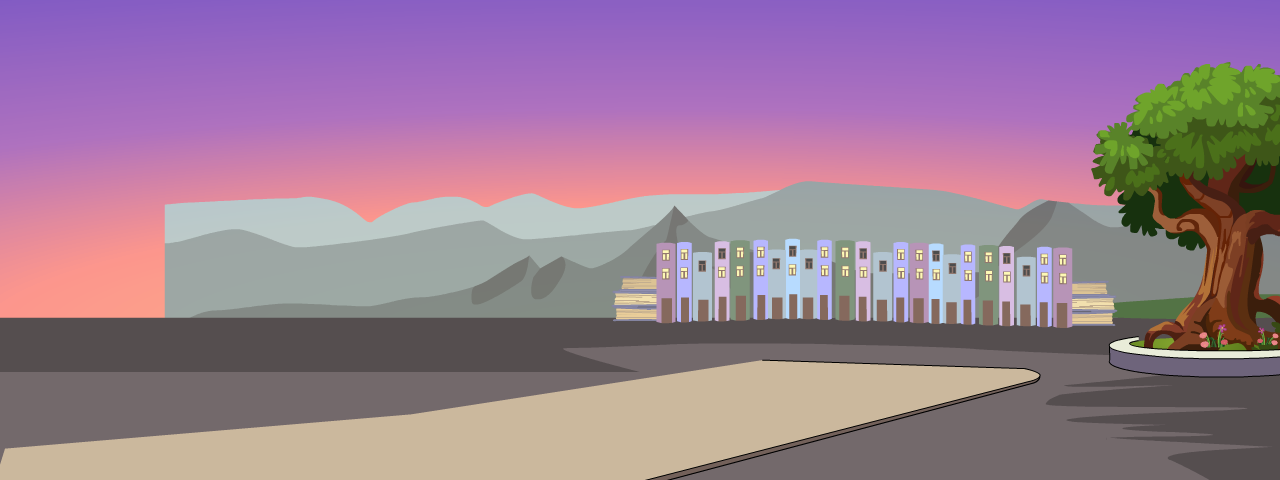
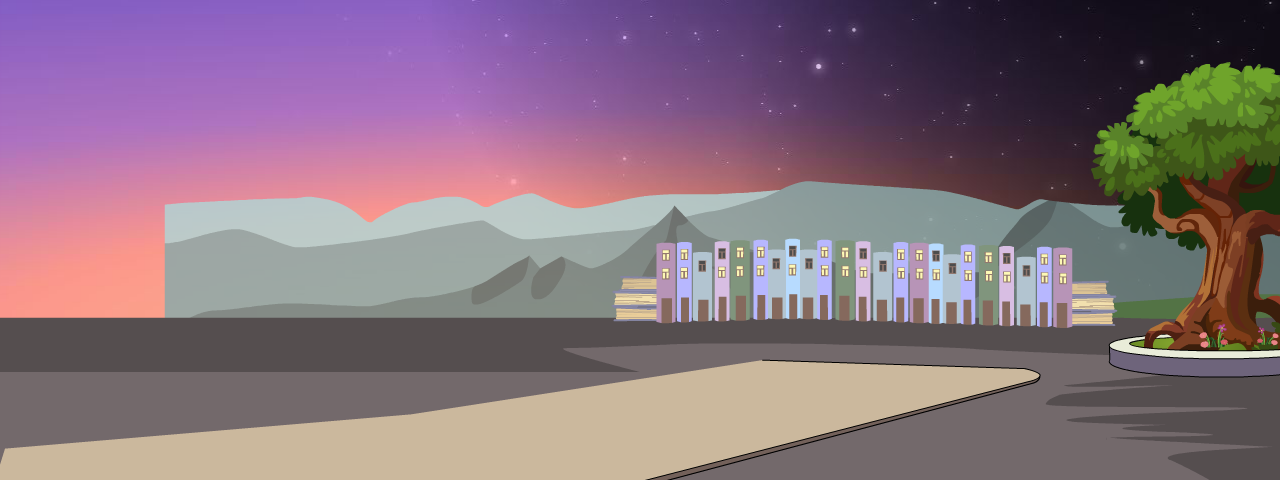
Add new transition environment

Changed region(s): [[0.375, 0.0, 1.0, 0.625]]

diff --git a/src/layout/console/content/play/components/environment/CityTransition.js b/src/layout/console/content/play/components/environment/CityTransition.js
@@ -3,22 +3,14 @@
  */
 import Environment from "./Environment";
 
-export default class CityEntrance extends Environment {
-  static GROUND_IMAGE =
-    "./assets/animation/city_entrance/city_entrance_background.png";
-  static HOUSES_IMAGE =
-    "./assets/animation/city_entrance/city_entrance_houses.png";
-  static LAMPS_IMAGE =
-    "./assets/animation/city_entrance/city_entrance_lamps.png";
-  static SHADOW_IMAGE =
-    "./assets/animation/city_entrance/city_entrance_shadow.png";
-
+export default class CityTransition extends Environment {
+  static GROUND_IMAGE = "./assets/animation/city_transition/city_transition_background.png";
+  static KEYWALL_IMAGE =
+    "./assets/animation/city_transition/city_transition_keywall.png";
+  static OVERLAY_IMAGE =
+    "./assets/animation/city_transition/city_transition_overlay.png";
   static WALK_AREA_IMAGE =
-    "./assets/animation/city_entrance/city_entrance_walkarea.png";
-  static WALK_BEHIND_AREA_IMAGE =
-    "./assets/animation/city_entrance/city_entrance_walkarea_behind.png";
-  static WALK_BEHIND2_AREA_IMAGE =
-    "./assets/animation/city_entrance/city_entrance_walkarea_behind2.png";
+    "./assets/animation/city_transition/city_transition_walkarea.png";
 
   /**
    * Preload all the environment images, so they are cached and ready to display
@@ -28,32 +20,20 @@ export default class CityEntrance extends Environment {
     super.preload(p5);
     this.animationLoader.getStaticImage(
       p5,
-      CityEntrance.GROUND_IMAGE
+      CityTransition.GROUND_IMAGE
     );
     this.animationLoader.getStaticImage(
       p5,
-      CityEntrance.HOUSES_IMAGE
+      CityTransition.KEYWALL_IMAGE
     );
     this.animationLoader.getStaticImage(
       p5,
-      CityEntrance.LAMPS_IMAGE
-    );
-    this.animationLoader.getStaticImage(
-      p5,
-      CityEntrance.SHADOW_IMAGE
+      CityTransition.OVERLAY_IMAGE
     );
 
     this.animationLoader.getStaticImage(
       p5,
-      CityEntrance.WALK_AREA_IMAGE
-    );
-    this.animationLoader.getStaticImage(
-      p5,
-      CityEntrance.WALK_BEHIND_AREA_IMAGE
-    );
-    this.animationLoader.getStaticImage(
-      p5,
-      CityEntrance.WALK_BEHIND2_AREA_IMAGE
+      CityTransition.WALK_AREA_IMAGE
     );
   }
 
@@ -64,55 +44,25 @@ export default class CityEntrance extends Environment {
   getRightSpawnProperties() {
     console.log("getRightSpawnProperties");
     return {
-      x: Math.round(
-        (CityEntrance.IMAGE_WIDTH - 100) * this.scaleAmountX
-      ),
-      y: Math.round(
-        (CityEntrance.IMAGE_HEIGHT - 120) *
-          this.scaleAmountY
-      ),
-      scale: 0.2,
+      x: Math.round((CityTransition.IMAGE_WIDTH - 100) * this.scaleAmountX),
+      y: Math.round((CityTransition.IMAGE_HEIGHT - 140) * this.scaleAmountY),
+      scale: 0.3,
+    };
+  }
+
+  getLeftSpawnProperties() {
+    console.log("getLeftSpawnProperties");
+    return {
+      x: Math.round(100 * this.scaleAmountX),
+      y: Math.round((Environment.IMAGE_HEIGHT - 140) * this.scaleAmountY),
+      scale: 0.3
     };
   }
 
   isValidPosition(p5, x, y) {
     let walkAreaImage = this.animationLoader.getStaticImage(
       p5,
-      CityEntrance.WALK_AREA_IMAGE
-    );
-
-    let color = walkAreaImage.get(
-      Math.round(x / this.scaleAmountX),
-      Math.round(y / this.scaleAmountY)
-    );
-    if (color && color[0] > 0) {
-      return true;
-    } else {
-      return false;
-    }
-  }
-
-  isWalkBehindLampsPosition(p5, x, y) {
-    let walkAreaImage = this.animationLoader.getStaticImage(
-      p5,
-      CityEntrance.WALK_BEHIND_AREA_IMAGE
-    );
-
-    let color = walkAreaImage.get(
-      Math.round(x / this.scaleAmountX),
-      Math.round(y / this.scaleAmountY)
-    );
-    if (color && color[0] > 0) {
-      return true;
-    } else {
-      return false;
-    }
-  }
-
-  isWalkBehindHousesPosition(p5, x, y) {
-    let walkAreaImage = this.animationLoader.getStaticImage(
-      p5,
-      CityEntrance.WALK_BEHIND2_AREA_IMAGE
+      CityTransition.WALK_AREA_IMAGE
     );
 
     let color = walkAreaImage.get(
@@ -134,84 +84,32 @@ export default class CityEntrance extends Environment {
     let backgroundImage =
       this.animationLoader.getStaticImage(
         p5,
-        CityEntrance.GROUND_IMAGE
+        CityTransition.GROUND_IMAGE
       );
-    let housesImage = this.animationLoader.getStaticImage(
-      p5,
-      CityEntrance.HOUSES_IMAGE
-    );
-    let lampsImage = this.animationLoader.getStaticImage(
-      p5,
-      CityEntrance.LAMPS_IMAGE
-    );
 
     p5.push();
     p5.scale(this.scaleAmountX, this.scaleAmountY);
 
     p5.image(backgroundImage, 0, 0);
 
-    let walkBehindHouses = this.isWalkBehindHousesPosition(
-      p5,
-      fervie.getFervieFootX(),
-      fervie.getFervieFootY()
-    );
-    let walkBehindLamps = this.isWalkBehindLampsPosition(
-      p5,
-      fervie.getFervieFootX(),
-      fervie.getFervieFootY()
-    );
-
-    if (!walkBehindHouses) {
-      p5.image(housesImage, 0, 0);
-    }
-
-    if (!walkBehindLamps && !walkBehindHouses) {
-      p5.image(lampsImage, 0, 0);
-    }
-
     p5.pop();
   }
 
   drawOverlay(p5, fervie) {
-    let shadowOverlay = this.animationLoader.getStaticImage(
+    let keywallImage = this.animationLoader.getStaticImage(
       p5,
-      CityEntrance.SHADOW_IMAGE
+      CityTransition.KEYWALL_IMAGE
     );
-    let housesImage = this.animationLoader.getStaticImage(
+    let overlayImage = this.animationLoader.getStaticImage(
       p5,
-      CityEntrance.HOUSES_IMAGE
-    );
-    let lampsImage = this.animationLoader.getStaticImage(
-      p5,
-      CityEntrance.LAMPS_IMAGE
+      CityTransition.OVERLAY_IMAGE
     );
 
     p5.push();
     p5.scale(this.scaleAmountX, this.scaleAmountY);
 
-    if (
-      this.isWalkBehindHousesPosition(
-        p5,
-        fervie.getFervieFootX(),
-        fervie.getFervieFootY()
-      )
-    ) {
-      p5.image(housesImage, 0, 0);
-      p5.image(lampsImage, 0, 0);
-    }
-
-    if (
-      this.isWalkBehindLampsPosition(
-        p5,
-        fervie.getFervieFootX(),
-        fervie.getFervieFootY()
-      )
-    ) {
-      p5.image(lampsImage, 0, 0);
-    }
-
-    p5.tint(255, Math.round(220));
-    p5.image(shadowOverlay, 0, 0);
+    p5.image(keywallImage, 0, 0);
+    p5.image(overlayImage, 0, 0);
 
     p5.pop();
   }

diff --git a/src/layout/console/content/play/components/environment/EnvironmentMap.js b/src/layout/console/content/play/components/environment/EnvironmentMap.js
@@ -8,6 +8,7 @@ import HouseInsideEntry from "./HouseInsideEntry";
 import HouseInsideKitchen from "./HouseInsideKitchen";
 import HouseInsideBedroom from "./HouseInsideBedroom";
 import CityEntrance from "./CityEntrance";
+import CityTransition from "./CityTransition";
 
 export default class EnvironmentMap {
   constructor(animationLoader, width, height) {
@@ -34,6 +35,8 @@ export default class EnvironmentMap {
   static HOUSE_INSIDE_KITCHEN = "HouseInsideKitchen";
   static HOUSE_INSIDE_BEDROOM = "HouseInsideBedroom";
   static CITY_ENTRANCE = "CityEntrance";
+  static CITY_TRANSITION = "CityTransition";
+
 
   static MAP_LEFT = "-left";
   static MAP_RIGHT = "-right";
@@ -89,56 +92,29 @@ export default class EnvironmentMap {
         this.height
       );
 
+    this.environmentMap[EnvironmentMap.CITY_TRANSITION] =
+      new CityTransition(
+        this.animationLoader,
+        this.width,
+        this.height
+      );
+
     this.travelMap = [];
 
-    this.travelMap[
-      EnvironmentMap.ENVIRONMENT_BIG_TREE +
-        EnvironmentMap.MAP_RIGHT
-    ] = EnvironmentMap.ENVIRONMENT_SHROOMHOUSE;
-    this.travelMap[
-      EnvironmentMap.ENVIRONMENT_SHROOMHOUSE +
-        EnvironmentMap.MAP_LEFT
-    ] = EnvironmentMap.ENVIRONMENT_BIG_TREE;
-    this.travelMap[
-      EnvironmentMap.ENVIRONMENT_BIG_TREE +
-        EnvironmentMap.MAP_NORTH
-    ] = EnvironmentMap.ENVIRONMENT_LAKE;
-    this.travelMap[
-      EnvironmentMap.ENVIRONMENT_BIG_TREE +
-        EnvironmentMap.MAP_LEFT
-    ] = EnvironmentMap.CITY_ENTRANCE;
-    this.travelMap[
-      EnvironmentMap.CITY_ENTRANCE +
-        EnvironmentMap.MAP_RIGHT
-    ] = EnvironmentMap.ENVIRONMENT_BIG_TREE;
-    this.travelMap[
-      EnvironmentMap.ENVIRONMENT_LAKE +
-        EnvironmentMap.MAP_SOUTH
-    ] = EnvironmentMap.ENVIRONMENT_BIG_TREE;
-    this.travelMap[
-      EnvironmentMap.ENVIRONMENT_SHROOMHOUSE +
-        EnvironmentMap.MAP_NORTH
-    ] = EnvironmentMap.HOUSE_INSIDE_ENTRY;
-    this.travelMap[
-      EnvironmentMap.HOUSE_INSIDE_ENTRY +
-        EnvironmentMap.MAP_SOUTH
-    ] = EnvironmentMap.ENVIRONMENT_SHROOMHOUSE;
-    this.travelMap[
-      EnvironmentMap.HOUSE_INSIDE_ENTRY +
-        EnvironmentMap.MAP_LEFT
-    ] = EnvironmentMap.HOUSE_INSIDE_KITCHEN;
-    this.travelMap[
-      EnvironmentMap.HOUSE_INSIDE_ENTRY +
-        EnvironmentMap.MAP_NORTH
-    ] = EnvironmentMap.HOUSE_INSIDE_BEDROOM;
-    this.travelMap[
-      EnvironmentMap.HOUSE_INSIDE_KITCHEN +
-        EnvironmentMap.MAP_RIGHT
-    ] = EnvironmentMap.HOUSE_INSIDE_ENTRY;
-    this.travelMap[
-      EnvironmentMap.HOUSE_INSIDE_BEDROOM +
-        EnvironmentMap.MAP_SOUTH
-    ] = EnvironmentMap.HOUSE_INSIDE_ENTRY;
+    this.travelMap[EnvironmentMap.ENVIRONMENT_BIG_TREE + EnvironmentMap.MAP_RIGHT] = EnvironmentMap.ENVIRONMENT_SHROOMHOUSE;
+    this.travelMap[EnvironmentMap.ENVIRONMENT_SHROOMHOUSE + EnvironmentMap.MAP_LEFT] = EnvironmentMap.ENVIRONMENT_BIG_TREE;
+    this.travelMap[EnvironmentMap.ENVIRONMENT_BIG_TREE + EnvironmentMap.MAP_NORTH] = EnvironmentMap.ENVIRONMENT_LAKE;
+    this.travelMap[EnvironmentMap.ENVIRONMENT_BIG_TREE + EnvironmentMap.MAP_LEFT] = EnvironmentMap.CITY_TRANSITION;
+    this.travelMap[EnvironmentMap.CITY_TRANSITION + EnvironmentMap.MAP_RIGHT] = EnvironmentMap.ENVIRONMENT_BIG_TREE;
+    this.travelMap[EnvironmentMap.CITY_TRANSITION + EnvironmentMap.MAP_LEFT] = EnvironmentMap.CITY_ENTRANCE;
+    this.travelMap[EnvironmentMap.CITY_ENTRANCE + EnvironmentMap.MAP_RIGHT] = EnvironmentMap.CITY_TRANSITION;
+    this.travelMap[EnvironmentMap.ENVIRONMENT_LAKE + EnvironmentMap.MAP_SOUTH] = EnvironmentMap.ENVIRONMENT_BIG_TREE;
+    this.travelMap[EnvironmentMap.ENVIRONMENT_SHROOMHOUSE + EnvironmentMap.MAP_NORTH] = EnvironmentMap.HOUSE_INSIDE_ENTRY;
+    this.travelMap[EnvironmentMap.HOUSE_INSIDE_ENTRY + EnvironmentMap.MAP_SOUTH] = EnvironmentMap.ENVIRONMENT_SHROOMHOUSE;
+    this.travelMap[EnvironmentMap.HOUSE_INSIDE_ENTRY + EnvironmentMap.MAP_LEFT] = EnvironmentMap.HOUSE_INSIDE_KITCHEN;
+    this.travelMap[EnvironmentMap.HOUSE_INSIDE_ENTRY + EnvironmentMap.MAP_NORTH] = EnvironmentMap.HOUSE_INSIDE_BEDROOM;
+    this.travelMap[EnvironmentMap.HOUSE_INSIDE_KITCHEN + EnvironmentMap.MAP_RIGHT] = EnvironmentMap.HOUSE_INSIDE_ENTRY;
+    this.travelMap[EnvironmentMap.HOUSE_INSIDE_BEDROOM + EnvironmentMap.MAP_SOUTH] = EnvironmentMap.HOUSE_INSIDE_ENTRY;
   }
 
   moveMapLeft(p5) {

diff --git a/src/layout/console/content/play/components/environment/CityEntrance.js b/src/layout/console/content/play/components/environment/CityEntrance.js
@@ -1,5 +1,5 @@
 /**
- * Creates our lake in the woods environment for Fervie to walk around in
+ * Creates our city entrance environment for Fervie to walk around in
  */
 import Environment from "./Environment";
 
